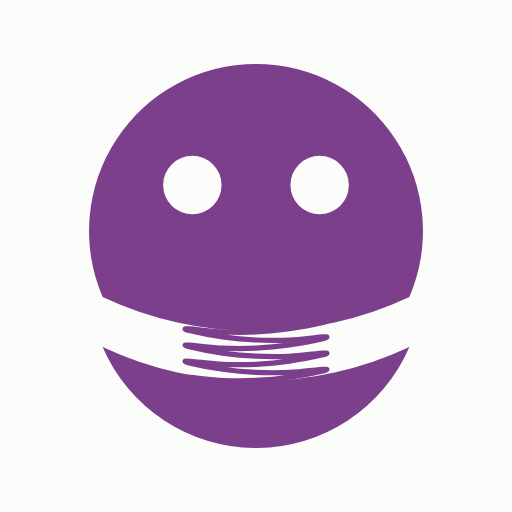
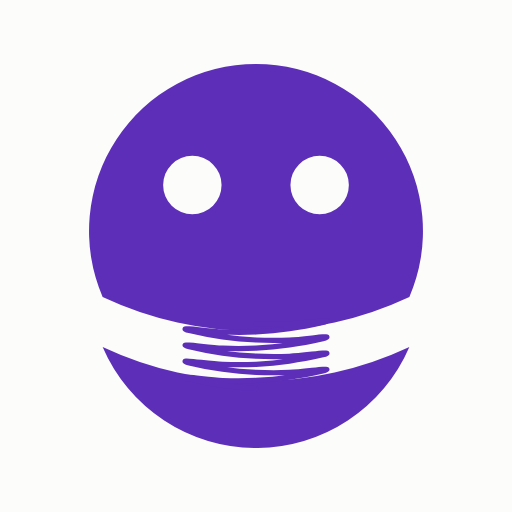
tick 857: AppSpring is violet; the pending accent pair is cleared; 0.10.2 (#2)
Hub D-116 (Peter, queue brand-2): AppSpring's plum was 8.8 and 7.7 from
PulseSpring's magenta. Violet #5d2eb8 / #b09af5 is 14.1 and 11.9 from its nearest
accent and clears the pairwise rule with no exception, so PENDING is empty (D-21).
Dolls, favicons and lockup regenerated.

diff --git a/dist/tokens.d.ts b/dist/tokens.d.ts
@@ -9,9 +9,9 @@ type Deep<T> = { readonly [K in keyof T]: Deep<T[K]> };
 /** Every product key, the values [data-product] takes. */
 export declare const products: Deep<["forspring","spring","sitespring","dataspring","appspring","pulsespring"]>;
 /** Each product's accent (hub D-90), at least 4.5:1 on background in its theme. */
-export declare const accents: Deep<{"forspring":{"light":"#2244ff","dark":"#6b83ff"},"spring":{"light":"#2244ff","dark":"#6b83ff"},"sitespring":{"light":"#b8442a","dark":"#e0714f"},"dataspring":{"light":"#0b7a7f","dark":"#2ba7ad"},"appspring":{"light":"#7b3f8c","dark":"#b57cc6"},"pulsespring":{"light":"#a3237a","dark":"#e06dba"}}>;
+export declare const accents: Deep<{"forspring":{"light":"#2244ff","dark":"#6b83ff"},"spring":{"light":"#2244ff","dark":"#6b83ff"},"sitespring":{"light":"#b8442a","dark":"#e0714f"},"dataspring":{"light":"#0b7a7f","dark":"#2ba7ad"},"appspring":{"light":"#5d2eb8","dark":"#b09af5"},"pulsespring":{"light":"#a3237a","dark":"#e06dba"}}>;
 /** Each product's doll colour (hub D-101): its accent, and ink (paper on dark) for Forspring. */
-export declare const marks: Deep<{"forspring":{"light":"#14151a","dark":"#ededea"},"spring":{"light":"#2244ff","dark":"#6b83ff"},"sitespring":{"light":"#b8442a","dark":"#e0714f"},"dataspring":{"light":"#0b7a7f","dark":"#2ba7ad"},"appspring":{"light":"#7b3f8c","dark":"#b57cc6"},"pulsespring":{"light":"#a3237a","dark":"#e06dba"}}>;
+export declare const marks: Deep<{"forspring":{"light":"#14151a","dark":"#ededea"},"spring":{"light":"#2244ff","dark":"#6b83ff"},"sitespring":{"light":"#b8442a","dark":"#e0714f"},"dataspring":{"light":"#0b7a7f","dark":"#2ba7ad"},"appspring":{"light":"#5d2eb8","dark":"#b09af5"},"pulsespring":{"light":"#a3237a","dark":"#e06dba"}}>;
 /** Semantic roles per theme, #rrggbb; primary and ring are Forspring's. Use themeFor for another product. */
 export declare const roles: Deep<{"light":{"background":"#fcfcfa","foreground":"#14151a","mark":"#14151a","body-foreground":"#3c3e46","card":"#ffffff","card-foreground":"#14151a","popover":"#ffffff","popover-foreground":"#14151a","muted":"#f1f1ec","muted-foreground":"#5b5e68","secondary":"#f1f1ec","secondary-foreground":"#14151a","accent":"#f1f1ec","accent-foreground":"#14151a","border":"#e4e5e1","input":"#c6c8c2","primary":"#2244ff","primary-foreground":"#ffffff","ring":"#2244ff","success":"#26700f","warning":"#7a5200","danger":"#9b1020","destructive":"#9b1020","signal-ok":"#1e9e48","signal-warn":"#b87503","signal-down":"#ee0a32","signal-off":"#7d808a","chart-1":"#6a87f0","chart-2":"#eb681d","chart-3":"#0da26b","chart-4":"#aa821e","chart-5":"#d868ab","chart-6":"#5f7630","chart-7":"#975ad1","chart-8":"#3097b3"},"dark":{"background":"#111215","foreground":"#ededea","mark":"#ededea","body-foreground":"#c8c9ce","card":"#17181c","card-foreground":"#ededea","popover":"#17181c","popover-foreground":"#ededea","muted":"#1a1b1f","muted-foreground":"#9d9fa8","secondary":"#1a1b1f","secondary-foreground":"#ededea","accent":"#1a1b1f","accent-foreground":"#ededea","border":"#2a2c32","input":"#42454d","primary":"#6b83ff","primary-foreground":"#111215","ring":"#6b83ff","success":"#62d162","warning":"#f2c14e","danger":"#ff3d5a","destructive":"#ff3d5a","signal-ok":"#3dd06a","signal-warn":"#f5b830","signal-down":"#ff2d3f","signal-off":"#7c7f88","chart-1":"#295fd4","chart-2":"#a25834","chart-3":"#3ca368","chart-4":"#b5820c","chart-5":"#924d7d","chart-6":"#5a7323","chart-7":"#824aca","chart-8":"#077fa8"}}>;
 /** Categorical series colours in their fixed order, per theme. Identity only; never cycled. */

diff --git a/test/contrast.test.ts b/test/contrast.test.ts
@@ -10,9 +10,10 @@ import { MODES, model } from "../src/emit.ts";
 const m = model(join(import.meta.dirname, "..", "tokens"));
 const SURFACES = ["background", "card", "muted"] as const;
 const AA = 4.5;
-// Accent pairs known to clash, waiting for Peter's choice (hub queue brand-2, tick 857): AppSpring's
-// plum and PulseSpring's magenta are 8.8 apart in light and 7.7 in dark. Remove the entry with the fix.
-const PENDING = new Set(["appspring/pulsespring"]);
+// Accent pairs known to clash while a hub decision is pending; each must still be too close, so the
+// entry goes with the fix. Empty since 0.10.2: AppSpring's plum, 8.8 and 7.7 from PulseSpring's magenta,
+// became violet (hub D-116, D-21).
+const PENDING = new Set<string>([]);
 
 describe.each(MODES)("%s theme", (mode) => {
   const c = (role: string) => m.colors[role]![mode];
@@ -58,7 +59,7 @@ describe.each(MODES)("%s theme", (mode) => {
         const pending = PENDING.has(`${p}/${q}`) || PENDING.has(`${q}/${p}`);
         // A pending pair must still be too close: once Peter's choice lands, this fails until the
         // entry is removed, so the exception cannot outlive the clash.
-        if (pending) test(`${p} / ${q}: ${d.toFixed(1)} (pending hub queue brand-2)`, () => expect(d).toBeLessThan(10));
+        if (pending) test(`${p} / ${q}: ${d.toFixed(1)} (pending a hub decision)`, () => expect(d).toBeLessThan(10));
         else test(`${p} / ${q}: ${d.toFixed(1)}`, () => expect(d).toBeGreaterThanOrEqual(10));
       }
     }
@@ -94,7 +95,7 @@ test("the D-90 accents, exactly, and Spring on Forspring's blue (hub D-101)", ()
     spring: { light: "#2244ff", dark: "#6b83ff" },
     sitespring: { light: "#b8442a", dark: "#e0714f" },
     dataspring: { light: "#0b7a7f", dark: "#2ba7ad" },
-    appspring: { light: "#7b3f8c", dark: "#b57cc6" },
+    appspring: { light: "#5d2eb8", dark: "#b09af5" },
     pulsespring: { light: "#a3237a", dark: "#e06dba" },
   });
 });

diff --git a/dist/html.d.ts b/dist/html.d.ts
@@ -20,7 +20,7 @@ export type Product = "forspring" | "spring" | "sitespring" | "dataspring" | "ap
 /** Each product's name as its wordmark writes it (hub D-101): never lowercase, never split. */
 export declare const PRODUCT_NAMES: Record<Product, string>;
 /** This package's version, the same as package.json's (a test checks), for the default brand path. */
-export declare const VERSION = "0.10.1";
+export declare const VERSION = "0.10.2";
 export type Theme = "light" | "dark";
 /**
  * The @font-face rules, with the font files under `base` ("/assets/fonts/" when a product serves the
@@ -45,7 +45,7 @@ export type Favicon = {
 };
 /** Where shell() expects the package's dist/brand/ by default: /assets/ui/<version>/brand/, the path
  *  products copy the package's files to (account D-20), versioned so a year-long cache stays right. */
-export declare const DEFAULT_BRAND_BASE = "/assets/ui/0.10.1/brand/";
+export declare const DEFAULT_BRAND_BASE = "/assets/ui/0.10.2/brand/";
 /** A product's favicon files under `base`, the URL where dist/brand/ is served (ending in /). */
 export declare function faviconFor(product: Product, base?: string): Favicon;
 /**

diff --git a/dist/html.js b/dist/html.js
@@ -66,7 +66,7 @@ export const PRODUCT_NAMES = {
     pulsespring: "PulseSpring",
 };
 /** This package's version, the same as package.json's (a test checks), for the default brand path. */
-export const VERSION = "0.10.1";
+export const VERSION = "0.10.2";
 // --- Fonts ------------------------------------------------------------------------------------------
 // The files' own coverage: Google Fonts' "latin" subset (Basic Latin, Latin-1 and the common
 // punctuation), as forspring.ai and the account ship them. Roboto is Latin-1 only.

diff --git a/dist/tokens.js b/dist/tokens.js
@@ -27,8 +27,8 @@ export const accents = Object.freeze({
     "dark": "#2ba7ad"
   },
   "appspring": {
-    "light": "#7b3f8c",
-    "dark": "#b57cc6"
+    "light": "#5d2eb8",
+    "dark": "#b09af5"
   },
   "pulsespring": {
     "light": "#a3237a",
@@ -54,8 +54,8 @@ export const marks = Object.freeze({
     "dark": "#2ba7ad"
   },
   "appspring": {
-    "light": "#7b3f8c",
-    "dark": "#b57cc6"
+    "light": "#5d2eb8",
+    "dark": "#b09af5"
   },
   "pulsespring": {
     "light": "#a3237a",

diff --git a/dist/tokens.css b/dist/tokens.css
@@ -112,10 +112,10 @@
 }
 
 [data-product="appspring"] {
-  --primary: light-dark(#7b3f8c, #b57cc6);
+  --primary: light-dark(#5d2eb8, #b09af5);
   --primary-foreground: light-dark(#ffffff, #111215);
-  --ring: light-dark(#7b3f8c, #b57cc6);
-  --mark: light-dark(#7b3f8c, #b57cc6);
+  --ring: light-dark(#5d2eb8, #b09af5);
+  --mark: light-dark(#5d2eb8, #b09af5);
 }
 
 [data-product="pulsespring"] {

diff --git a/src/html.ts b/src/html.ts
@@ -83,7 +83,7 @@ export const PRODUCT_NAMES: Record<Product, string> = {
 };
 
 /** This package's version, the same as package.json's (a test checks), for the default brand path. */
-export const VERSION = "0.10.1";
+export const VERSION = "0.10.2";
 export type Theme = "light" | "dark";
 
 // --- Fonts ------------------------------------------------------------------------------------------

diff --git a/docs/decisions.md b/docs/decisions.md
@@ -684,3 +684,13 @@ DataSpring's teal was 4.39:1.
 3. **DataSpring's light teal is `#0b7a7f`** (was `#0b7c82`), the smallest darkening that passes on
    soft (4.52:1). The two are 0.7 apart, under any visible difference. Hub D-90's table is amended to
    match.
+
+## D-21 — AppSpring is violet; the pending pair is cleared; 0.10.2 (2026-11-11)
+
+Hub D-116 (Peter, on the brand review's option page, queue brand-2). AppSpring's accent moves from plum
+`#7b3f8c` / `#b57cc6` to violet **`#5d2eb8` / `#b09af5`**: 14.1 (light) and 11.9 (dark) from its nearest
+accent, Spring's blue, against 8.8 and 7.7 from PulseSpring's magenta before. It is 7.27:1 on the soft
+grey in light and 7.20:1 in dark, and at least 8.6 from every other accent under protanopia and
+deuteranopia. The dolls, favicons and lockup are regenerated. The `PENDING` set in
+test/contrast.test.ts (D-20) is now empty, so every pair of accents must be at least 10 apart with no
+exception. BrainSpring keeps no token and wears Spring's doll (hub D-116 item 2).

diff --git a/README.md b/README.md
@@ -10,7 +10,7 @@ server-rendered component layer with typed HTML helpers.
 By git tag; each product pins a version and upgrades on purpose (D-2):
 
 ```
-pnpm add github:forspringai/ui#v0.10.1
+pnpm add github:forspringai/ui#v0.10.2
 ```
 
 Install with pnpm, or npm 11 or later (Node 24). npm 10 crashes while preparing a git dependency

diff --git a/AGENTS.md b/AGENTS.md
@@ -76,7 +76,7 @@ Node 22.18 or later (the build runs TypeScript directly). The build's brand PNGs
 ## Using it in a product
 
 ```
-"@forspring/ui": "github:forspringai/ui#v0.10.1"
+"@forspring/ui": "github:forspringai/ui#v0.10.2"
 ```
 
 - Server-rendered pages: `tokens.css`, `fonts.css`, `components.css` in that order (plus

diff --git a/brand/README.md b/brand/README.md
@@ -32,7 +32,7 @@ package README, "Favicons").
 | Spring | `#2244FF` | `#6B83FF` |
 | SiteSpring | `#B8442A` | `#E0714F` |
 | DataSpring | `#0B7C82` | `#2BA7AD` |
-| AppSpring | `#7B3F8C` | `#B57CC6` |
+| AppSpring | `#5D2EB8` | `#B09AF5` |
 | PulseSpring | `#A3237A` | `#E06DBA` |
 
 ## The files, in `brand/<product>/`
